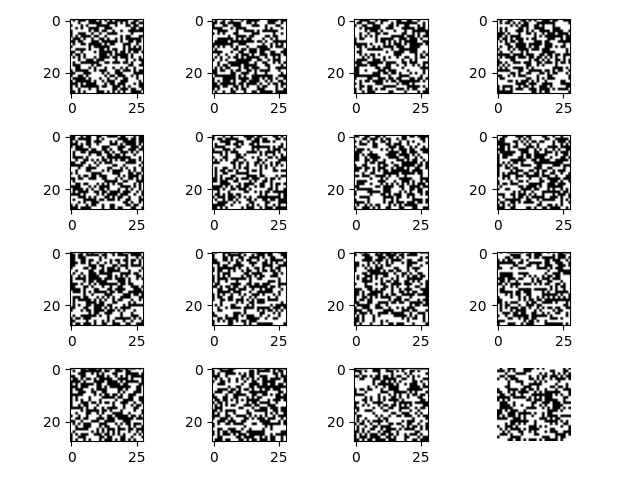
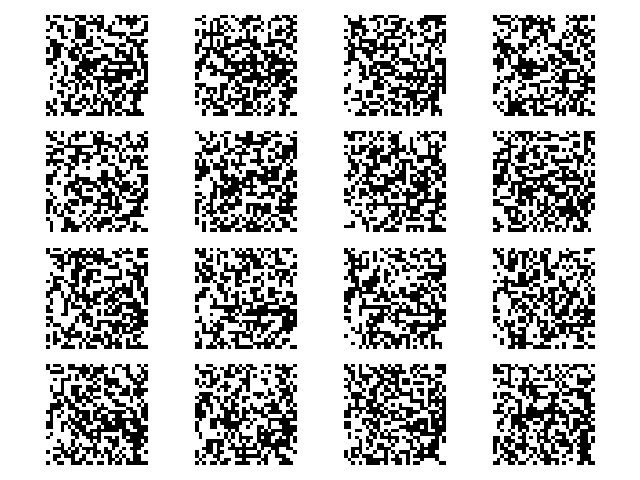
remove axis

diff --git a/main/cli.py b/main/cli.py
@@ -27,6 +27,7 @@ import matplotlib.pyplot as plt
 from absl import app, flags, logging
 
 from .vae import VAE, VAEOutput
+from .flow import make_flow_model
 
 
 flags.DEFINE_float("beta", 1, "Hyperparameter beta as in beta-VAE")
@@ -67,13 +68,7 @@ def load_dataset(split: str, batch_size: int) -> Iterator[Batch]:
 
 
 def vae_fn():
-    model = VAE(
-        latent_size=FLAGS.latent_size,
-        hidden_size=FLAGS.vae_hidden_size,
-        flow_num_layers=FLAGS.flow_num_layers,
-        flow_mlp_hidden_sizes=[FLAGS.mlp_hidden_size] * FLAGS.mlp_num_layers,
-        flow_num_bins=FLAGS.num_bins
-    )
+    model = VAE(FLAGS.latent_size, FLAGS.vae_hidden_size)
 
     def init(x, z):
         forward(x)
@@ -88,17 +83,53 @@ def vae_fn():
     return init, (forward, sample)
 
 
+def flow_fn():
+    event_shape = (FLAGS.latent_size,)
+
+    bijector = make_flow_model(
+        event_shape=event_shape,
+        num_layers=FLAGS.flow_num_layers,
+        hidden_sizes=[FLAGS.mlp_hidden_size] * FLAGS.mlp_num_layers,
+        num_bins=FLAGS.num_bins
+    )
+    base_distribution = distrax.MultivariateNormalDiag(
+        loc=jnp.zeros(event_shape),
+        scale_diag=jnp.ones(event_shape)
+    )
+    transformed = distrax.Transformed(base_distribution, bijector)
+
+    def init(z, epsilon):
+        log_prob(z)
+        transform(epsilon)
+
+    def log_prob(z: jnp.ndarray) -> jnp.ndarray:
+        return transformed.log_prob(z)
+
+    def transform(epsilon: jnp.ndarray) -> jnp.ndarray:
+        return distrax.Inverse(bijector).forward(epsilon)
+
+    return init, (log_prob, transform)
+
+
 def main(_):
     vae = hk.multi_transform(vae_fn)
+    flow =  hk.multi_transform(flow_fn)
 
     forward, sample = vae.apply
+    log_prob, transform = flow.apply
     rng_seq = hk.PRNGSequence(42)
 
-    params = vae.init(
+    vae_params = vae.init(
         next(rng_seq),
         jnp.empty((1, *MNIST_IMAGE_SHAPE)),
         jnp.empty((1, FLAGS.latent_size)),
     )
+    flow_params = flow.init(
+        next(rng_seq),
+        jnp.empty((1, FLAGS.latent_size)),
+        jnp.empty((1, FLAGS.latent_size)),
+    )
+    params = hk.data_structures.merge(vae_params, flow_params, check_duplicates=True)
 
     optimizer = optax.adam(FLAGS.learning_rate)
     opt_state = optimizer.init(params)
@@ -116,6 +147,7 @@ def main(_):
             scale_diag=jnp.ones((FLAGS.latent_size,)),
         )
         kl = outputs.variational_distrib.kl_divergence(prior_z)
+        kl -= log_prob(params, None, outputs.z)
 
         elbo = log_likelihood - FLAGS.beta * kl
 
@@ -135,13 +167,14 @@ def main(_):
         return new_params, new_opt_state
 
     @jax.jit
-    def generate(params: hk.Params, rng_key_z: PRNGKey, rng_key_x: PRNGKey) -> jnp.ndarray:
+    def generate(params: hk.Params, rng_key_epsilon: PRNGKey, rng_key_x: PRNGKey) -> jnp.ndarray:
         """Generate sample."""
-        prior_z = distrax.MultivariateNormalDiag(
+        prior_epsilon = distrax.MultivariateNormalDiag(
             loc=jnp.zeros((FLAGS.latent_size,)),
             scale_diag=jnp.ones((FLAGS.latent_size,)),
         )
-        z = prior_z.sample(seed=rng_key_z)
+        epsilon = prior_epsilon.sample(seed=rng_key_epsilon)
+        z = transform(params, None, epsilon)
         image = sample(params, rng_key_x, z)
         return image
 
@@ -163,7 +196,7 @@ def main(_):
             image = generate(params, next(rng_seq), next(rng_seq))
             image = image.reshape(MNIST_IMAGE_SHAPE[:-1])
             axes[i, j].imshow(image, cmap="gray")
-            plt.axis("off")
+            axes[i, j].axis("off")
             plt.tight_layout()
 
     fig.savefig("figures/generated.png")

diff --git a/main/vae.py b/main/vae.py
@@ -23,7 +23,6 @@ import jax.numpy as jnp
 import numpy as np
 
 from .common import MNIST_IMAGE_SHAPE
-from .flow import make_flow_model
 
 
 class Encoder(hk.Module):
@@ -79,6 +78,7 @@ class Decoder(hk.Module):
 class VAEOutput(NamedTuple):
     variational_distrib: distrax.Distribution
     likelihood_distrib: distrax.Distribution
+    z: jnp.ndarray
 
 
 class VAE(hk.Module):
@@ -88,21 +88,12 @@ class VAE(hk.Module):
         self,
         latent_size: int,
         hidden_size: int,
-        flow_num_layers: int,
-        flow_mlp_hidden_sizes: Sequence[int],
-        flow_num_bins: int,
         output_shape: Sequence[int] = MNIST_IMAGE_SHAPE,
     ):
         super().__init__()
         self._latent_size = latent_size
         self._hidden_size = hidden_size
         self._output_shape = output_shape
-        self.bijector = make_flow_model(
-            event_shape=(latent_size,),
-            num_layers=flow_num_layers,
-            hidden_sizes=flow_mlp_hidden_sizes,
-            num_bins=flow_num_bins
-        )
 
     def __call__(self, x: jnp.ndarray) -> VAEOutput:
         x = x.astype(jnp.float32)
@@ -113,16 +104,15 @@ class VAE(hk.Module):
             loc=mean, scale_diag=stddev
         )
         z = variational_distrib.sample(seed=hk.next_rng_key())
-        z_k = self.bijector.forward(z)
 
         # p(x|z) = \Prod Bernoulli(logits(z))
-        logits = Decoder(self._hidden_size, self._output_shape)(z_k)
+        logits = Decoder(self._hidden_size, self._output_shape)(z)
         likelihood_distrib = distrax.Independent(
             distrax.Bernoulli(logits=logits),
             reinterpreted_batch_ndims=len(self._output_shape),
         )  # 3 non-batch dims
 
-        return VAEOutput(variational_distrib, likelihood_distrib)
+        return VAEOutput(variational_distrib, likelihood_distrib, z)
 
     def sample(self, z: jnp.ndarray) -> jnp.ndarray:
         # p(x|z) = \Prod Bernoulli(logits(z))

diff --git a/main/flow.py b/main/flow.py
@@ -70,14 +70,15 @@ def make_flow_model(
     for _ in range(num_layers):
         layer = distrax.MaskedCoupling(
             mask=mask,
+            bijector=bijector_fn,
             conditioner=make_conditioner(
                 event_shape, hidden_sizes, num_bijector_params
             ),
-            bijector=bijector_fn,
         )
         layers.append(layer)
         # Flip the mask after each layer.
         mask = jnp.logical_not(mask)
 
-    flow = distrax.Chain(layers)
+    # We invert the flow so that the `forward` method is called with `log_prob`.
+    flow = distrax.Inverse(distrax.Chain(layers))
     return flow
